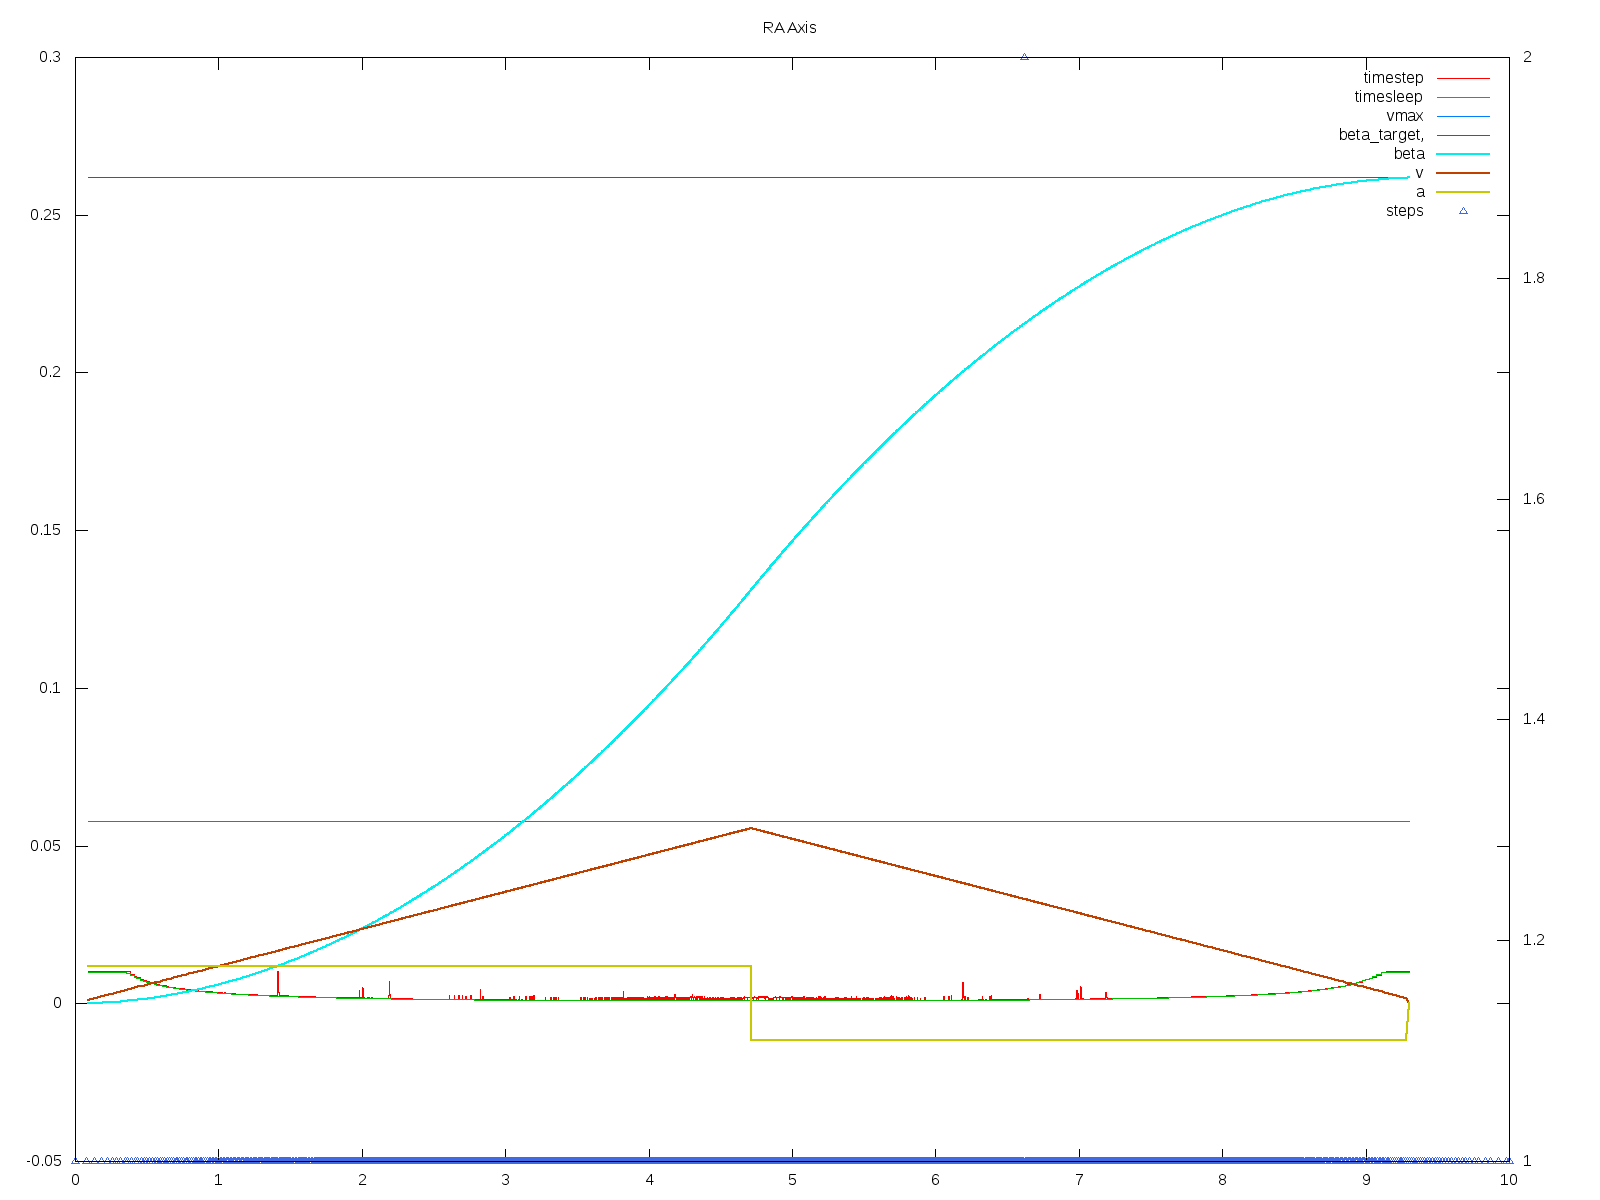
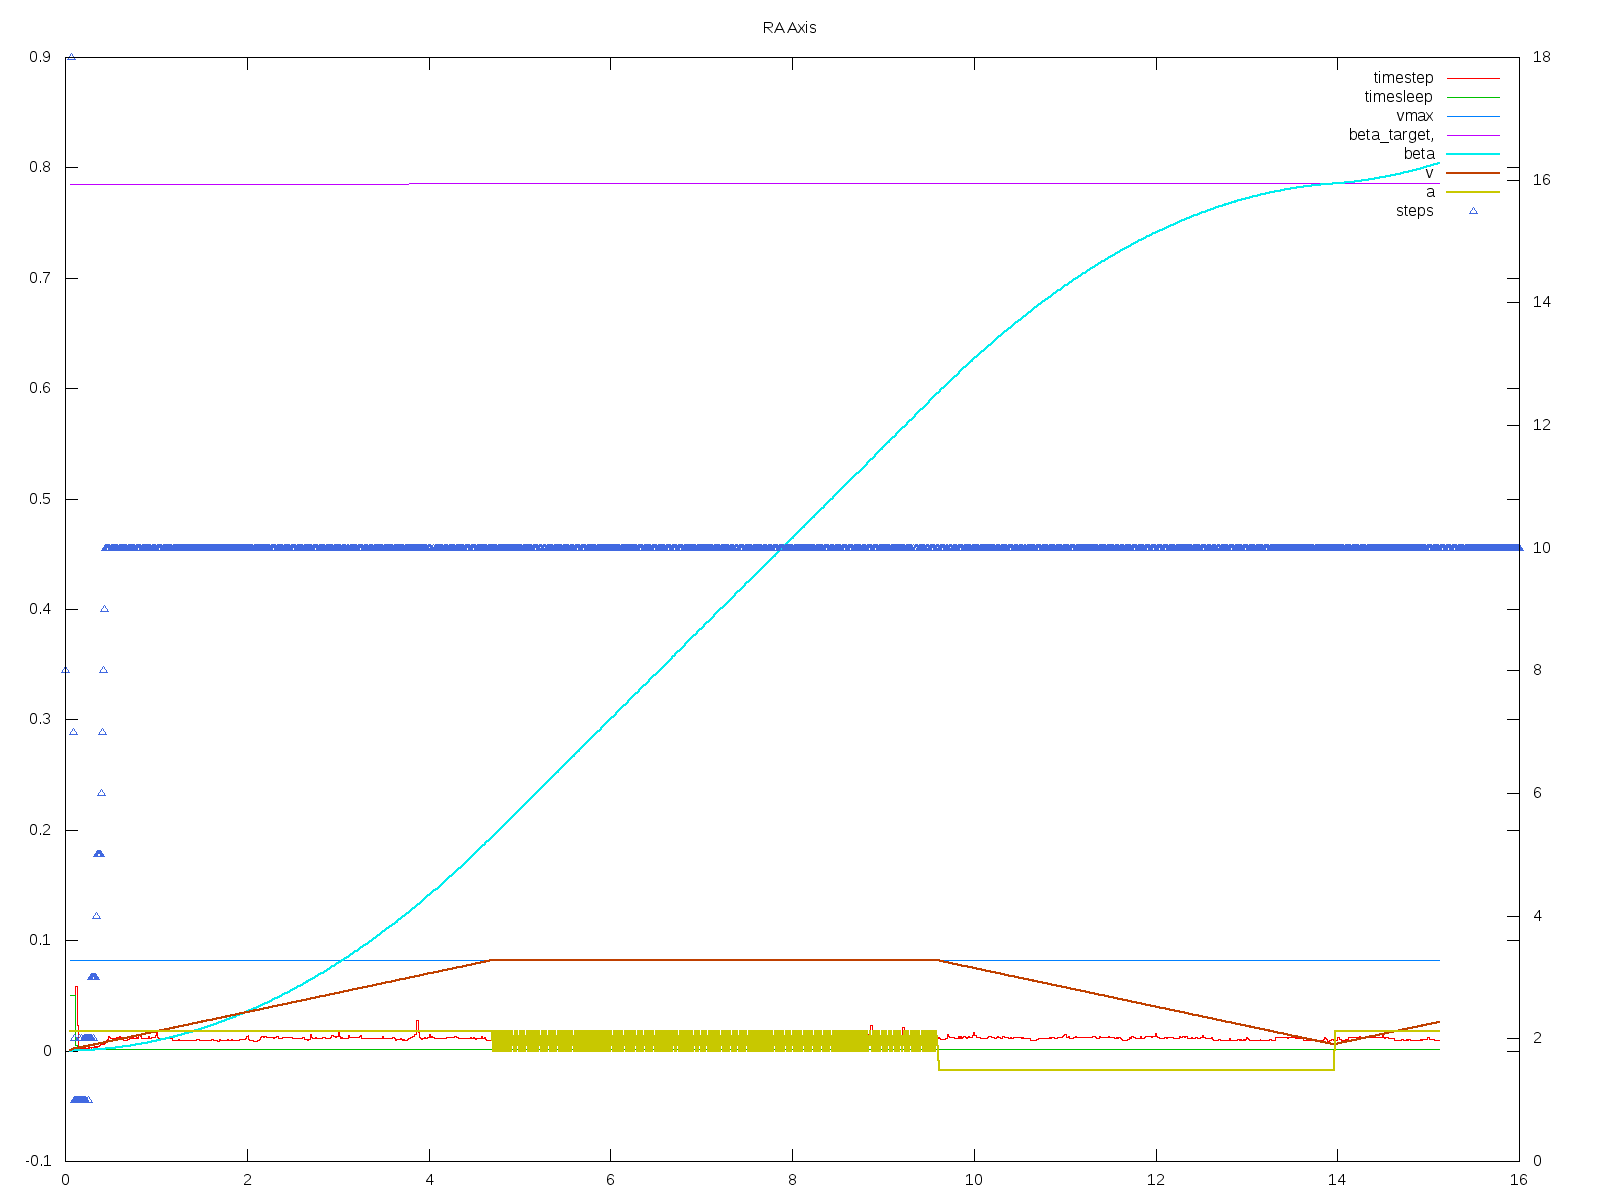
improve procastinating algorith

diff --git a/ramps.py b/ramps.py
@@ -24,7 +24,7 @@ class axis(object):
 		self.debug=True
 		self.name=0
 		self.pointError=float(pointError)
-		self.timestepMax=0.01
+		self.timestepMax=0.05
 		self.timestepMin=0.001
 		self.timestep=self.timestepMax
 		self.acceleration=float(a)
@@ -39,7 +39,6 @@ class axis(object):
 		self.vtracking=0
 		self.slewend=False
 		self.kill=False
-		self.deltaOld=0
 		self.T0=time.time()
 		#self.say()
 
@@ -88,7 +87,7 @@ class axis(object):
 		while not self.kill:
 			#estimate the timestep based on the error point
 			if self.v !=0:
-				self.timesleep=abs(float(self.pointError)/(self.v*3))
+				self.timesleep=abs(float(self.pointError)/(self.v*2))
 				if self.timesleep<self.timestepMin:
 					self.timesleep=self.timestepMin
 				if self.timesleep>self.timestepMax:
@@ -96,14 +95,12 @@ class axis(object):
 			else:
 				self.timesleep=self.timestepMax
 
-
 			#now calculate the actual timestep
 			now=time.time()
 			deltaT=now-self.T
 
 			#print self.name,self.timestep,deltaT,self.v
 			self.timestep=deltaT
-
 			if self.tracking:
 				steps=self.tracktick()
 			else:
@@ -179,12 +176,11 @@ class axis(object):
 			if sign==v_sign:
 				self.v=self._vmax*v_sign
 				self.a=0
-				print self.name,"V MAX :",ephem.degrees(self.v),ephem.degrees(self.v*self.timestep)
+				print self.name,"V MAX :",ephem.degrees(self.v),"MAX PATH:",ephem.degrees(self.v*self.timestep)
 
 		self.v=self.v+self.a*self.timestep
 		steps=self.v*self.timestep+self.a*(self.timestep*self.timestep)/2
 		self.beta=self.beta+steps
-		self.deltaOld=self.delta
 		#print self.name,"V,v*timestep,steps",ephem.degrees(self.v),ephem.degrees(self.v*self.timestep),ephem.degrees(steps)
 		return steps
 
@@ -203,29 +199,29 @@ class AxisDriver(axis):
 	def __init__(self,a,v,pointError,PIN):
 		super(AxisDriver, self).__init__(a,v,pointError)
 		self.PIN=PIN
-		self.stepsPerRevolution=200*16*1 	#Motor:steps*microsteps*gearbox
-		self.corona=30
+		self.stepsPerRevolution=200*16*24	#Motor:steps*microsteps*gearbox
+		self.corona=50
 		self.plate=500
 		self.FullTurnSteps=self.plate*self.stepsPerRevolution/self.corona
 		self.stepsRest=0
-		self.pulseWidth=0.001    		#in seconds
+		self.pulseWidth=0.0001    		#in seconds
 		self.pulseDuty=0.5
 		self.pointError=math.pi*2/self.FullTurnSteps
 		self.vmax=self.pointError/self.pulseWidth
 		self._vmax=self.vmax
-		self.acceleration=self.vmax/10.
+		#self.acceleration=self.vmax/10.
 		print "Min step (point Error)",ephem.degrees(self.pointError) \
 			,"Max speed: ",ephem.degrees(self._vmax)
 
 
-	
+
 	def doSteps(self,delta):
 		#Distribute steps on 
 		#delta is in radians. Calculate actual steps 
 		steps=(self.FullTurnSteps*delta)/(math.pi*2)+self.stepsRest
 		Isteps=round(steps)
 
-		#acumultate the not integer part
+		#acumultate the fractional part to the next step
 		self.stepsRest=steps-Isteps
 
 		#calculate direction of motion
@@ -242,19 +238,26 @@ class AxisDriver(axis):
 			return		
 		else:
 			pulseLasting=self.timesleep/float(Isteps)
-			#print self.name,self.timestep-self.timesleep,Isteps,pulseLasting,Isteps*pulseLasting,self.timestep
 
-		#print delta,self.timesleep,self.timestep
-		#print self.timesleep,self.name,ephem.degrees(delta),dir,Isteps,self.stepsRest,pulseLasting,self.timesleep,self.timestep
+		#Check if there is enought time to do the pulse and
+		#delay the pulses than have not room to the next cycle
+		if pulseLasting-self.pulseWidth <0:
+			Lsteps=int(self.timesleep/self.pulseWidth)
+			self.stepsRest=self.stepsRest+(Isteps-Lsteps)
+			print self.name,time.time()-self.T0,"\tProcastinating steps. \tORG:" ,Isteps,"\tDOING:",Lsteps,"\tPENDING:",Isteps-Lsteps
+			Isteps=Lsteps
+			if Isteps==0:
+				pulseLasting=0
+				time.sleep(self.timesleep)
+				return		
+			else:
+				pulseLasting=self.timesleep/float(Isteps)
+
+
 
 		if self.debug:
 			self.saveDebug(Isteps*dire)
 
-
-
-		if pulseLasting-self.pulseWidth <0:
-			print self.name,"\tTiming error (pulseLasting,pulseWidth,Isteps,timestep,timesleep)",\
-                              pulseLasting,self.pulseWidth,Isteps,self.timestep,self.timesleep
 
 		for p in range(Isteps):
 		   if raspi:
@@ -347,8 +350,8 @@ if __name__ == '__main__':
 	e=ephem.degrees('00:00:01')
 	m=mount(a,v,e)
 	m.trackSpeed(e,0)
-	RA=ephem.hours('01:00:00')
-	DEC=ephem.degrees('-30:30:00')
+	RA=ephem.hours('03:00:00')
+	DEC=ephem.degrees('15:00:00')
 	m.slew(RA,DEC)
 	t=0
 	while t<15:
